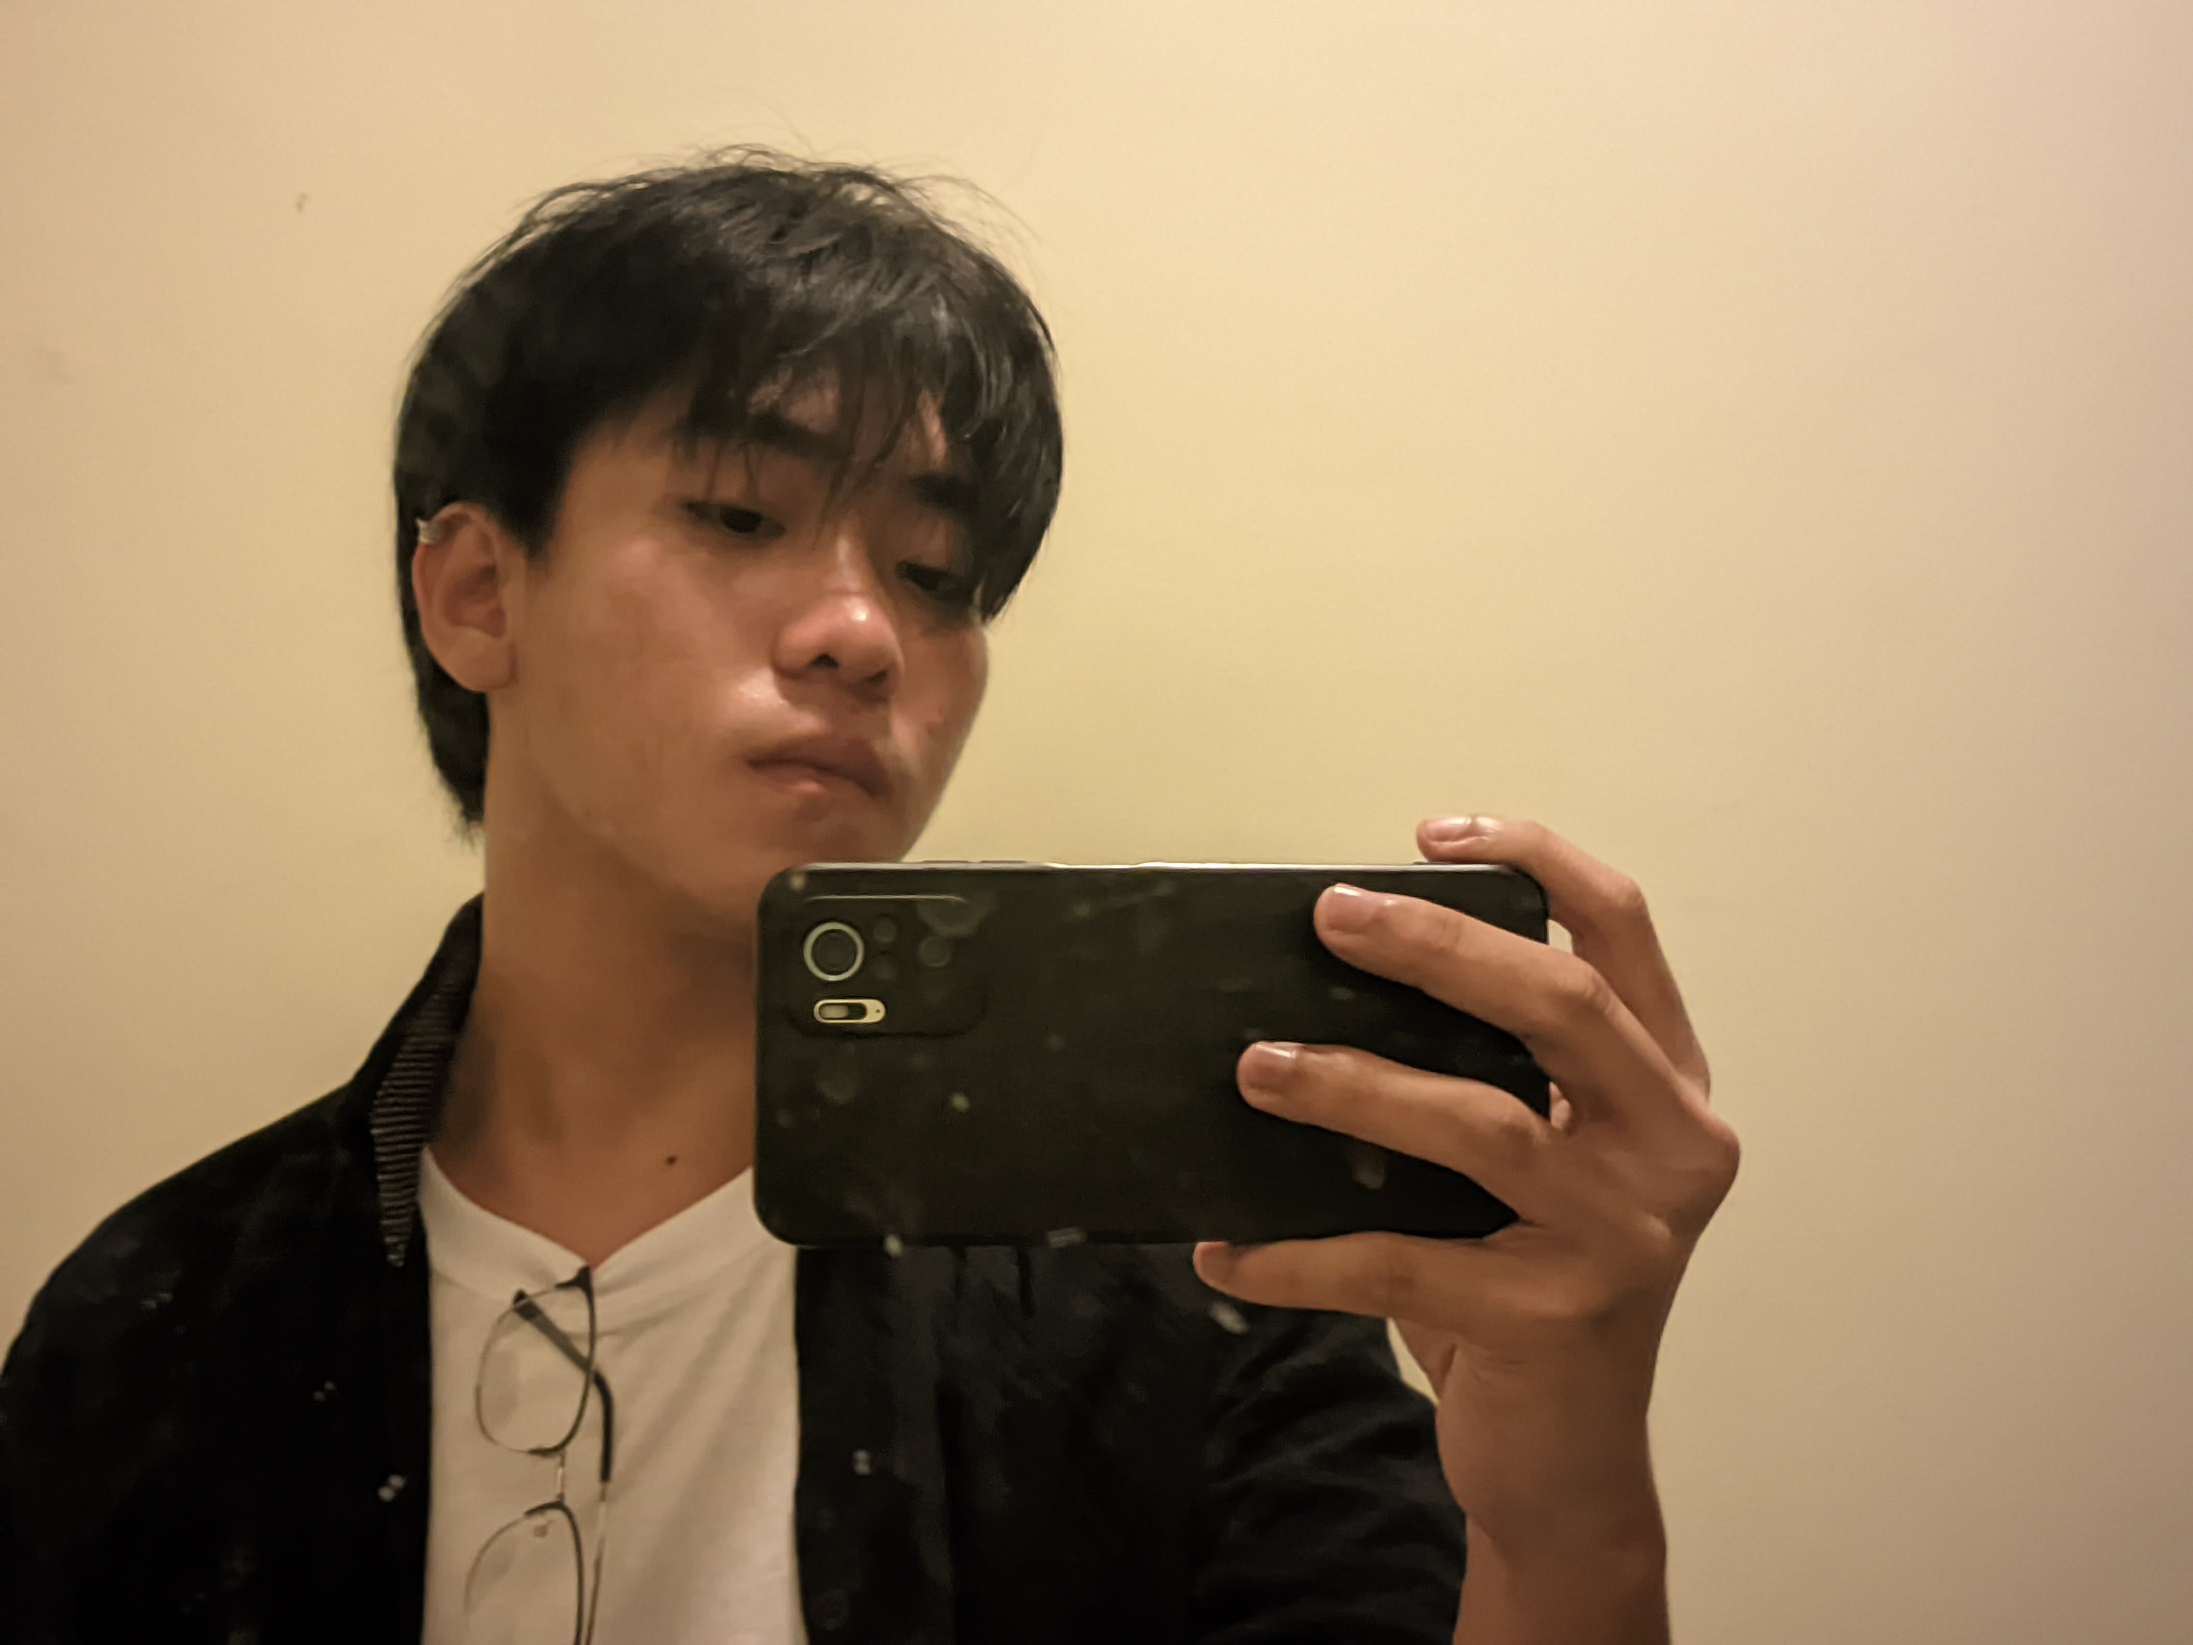
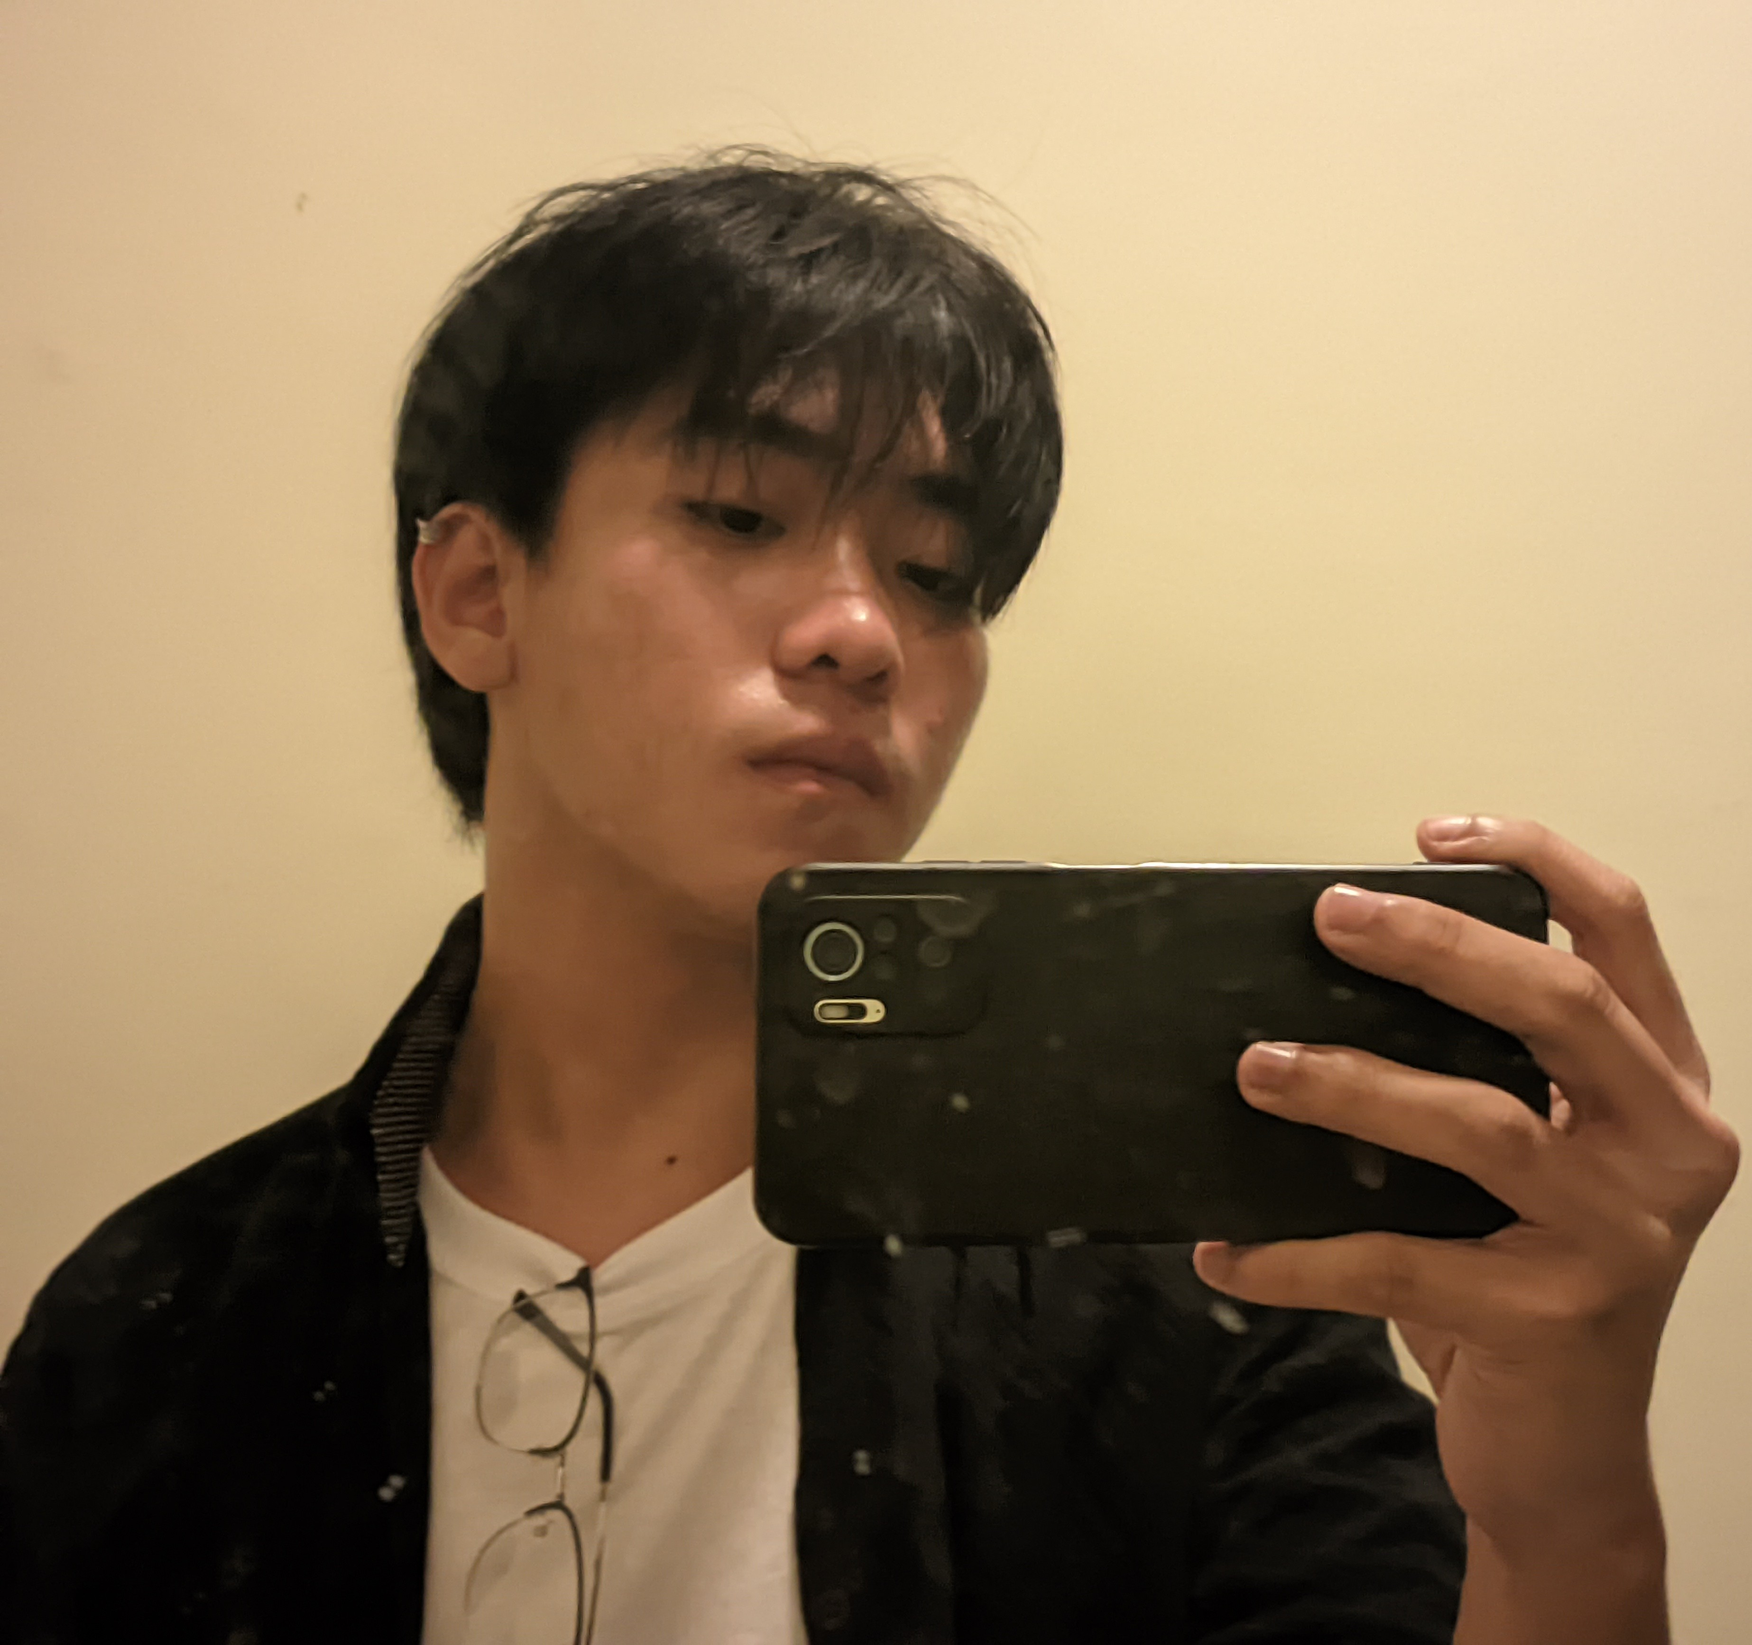
profile bg change

diff --git a/src/pages/About.jsx b/src/pages/About.jsx
@@ -1,6 +1,6 @@
 import React from "react";
 import certicode from "../assets/AboutImage/CerticodeLogo.png"; 
-import profile from '../assets/AboutImage/profile.png';
+import profile from '../assets/AboutImage/profile.jpg';
 import { techIcons } from "../constant";
 
 
@@ -15,7 +15,7 @@ const About = () => (
                     <img
                         src={profile}
                         alt="Profile"
-                        className="rounded-lg w-48 h-48 sm:w-56 sm:h-56 md:w-64 md:h-64 object-cover"
+                        className="rounded-lg w-48 h-48 sm:w-56 sm:h-56 md:w-72 md:h-72 object-cover"
                     />
                 </div>
                 {/* Background */}
